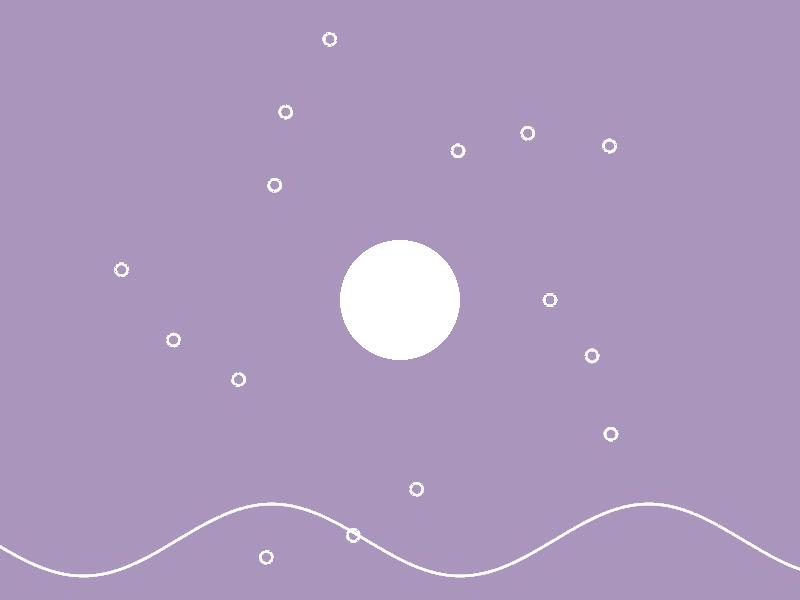
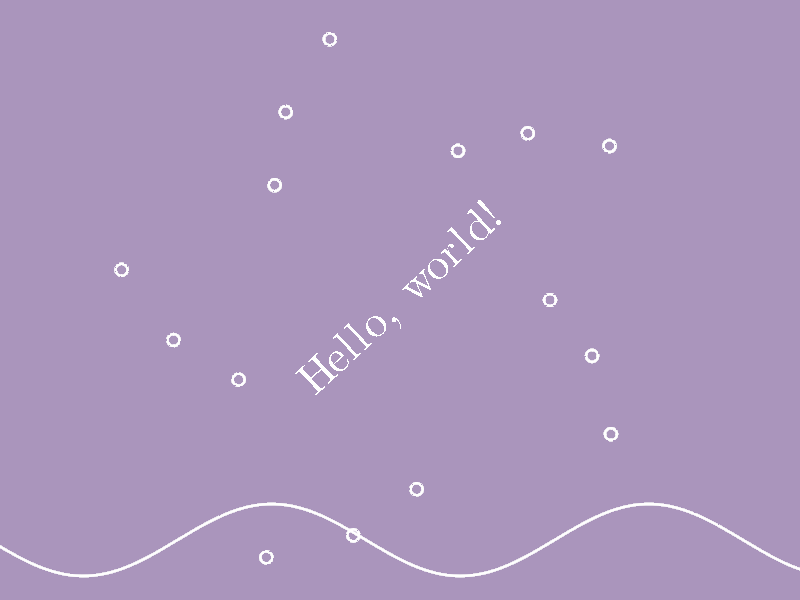
Demo Text

Changed region(s): [[0.375, 0.33, 0.625, 0.66]]

diff --git a/examples/demo.rs b/examples/demo.rs
@@ -1,6 +1,6 @@
 //! Renderers the demo scene at t=3.0 sec to a PNG file.
 
-use nelo::render::{Gpu, SceneRenderer, Target, TextureTarget};
+use nelo::render::{Gpu, Renderer, Target, TextureTarget};
 use nelo::scene::Scene;
 
 const WIDTH: u32 = 800;
@@ -11,7 +11,7 @@ fn main() {
     // Setup a target and renderer.
     let gpu = Gpu::headless();
     let mut target = TextureTarget::new(&gpu, WIDTH, HEIGHT);
-    let mut renderer = SceneRenderer::new(&gpu, Scene::demo());
+    let mut renderer = Renderer::new(&gpu, Scene::demo());
 
     // Run the draw loop exactly once.
     let frame = target.acquire(&gpu).expect("offscreen frame");

diff --git a/src/scene.rs b/src/scene.rs
@@ -131,7 +131,7 @@ impl Scene {
             .arrange(line)
             .for_each(|i, e| e.rotate(repeat.clone().add(0.2).multiply(i as f32)));
 
-        // Let's create a shape using a spline.
+        // Create some text.
         scene
             .text("Hello, world!")
             .scale(0.75)

diff --git a/README.md b/README.md
@@ -47,12 +47,11 @@ pub fn demo() -> Scene {
         .arrange(line)
         .for_each(|i, e| e.rotate(repeat.clone().add(0.2).multiply(i as f32)));
 
-    // Let's create a shape using a spline.
-    let shape = Timeline::keyframes(path::square().multiply(1.8))
-        .at(1.0, path::circle())
-        .build()
-        .compose(repeat);
-    scene.spline(shape).fill(Vec4::ONE).no_stroke();
+    // Create some text.
+    scene
+        .text("Hello, world!")
+        .scale(0.75)
+        .rotate(repeat.clone().add(-0.5).multiply(1.5));
 
     // Wavy path.
     scene.spline_with_range(
